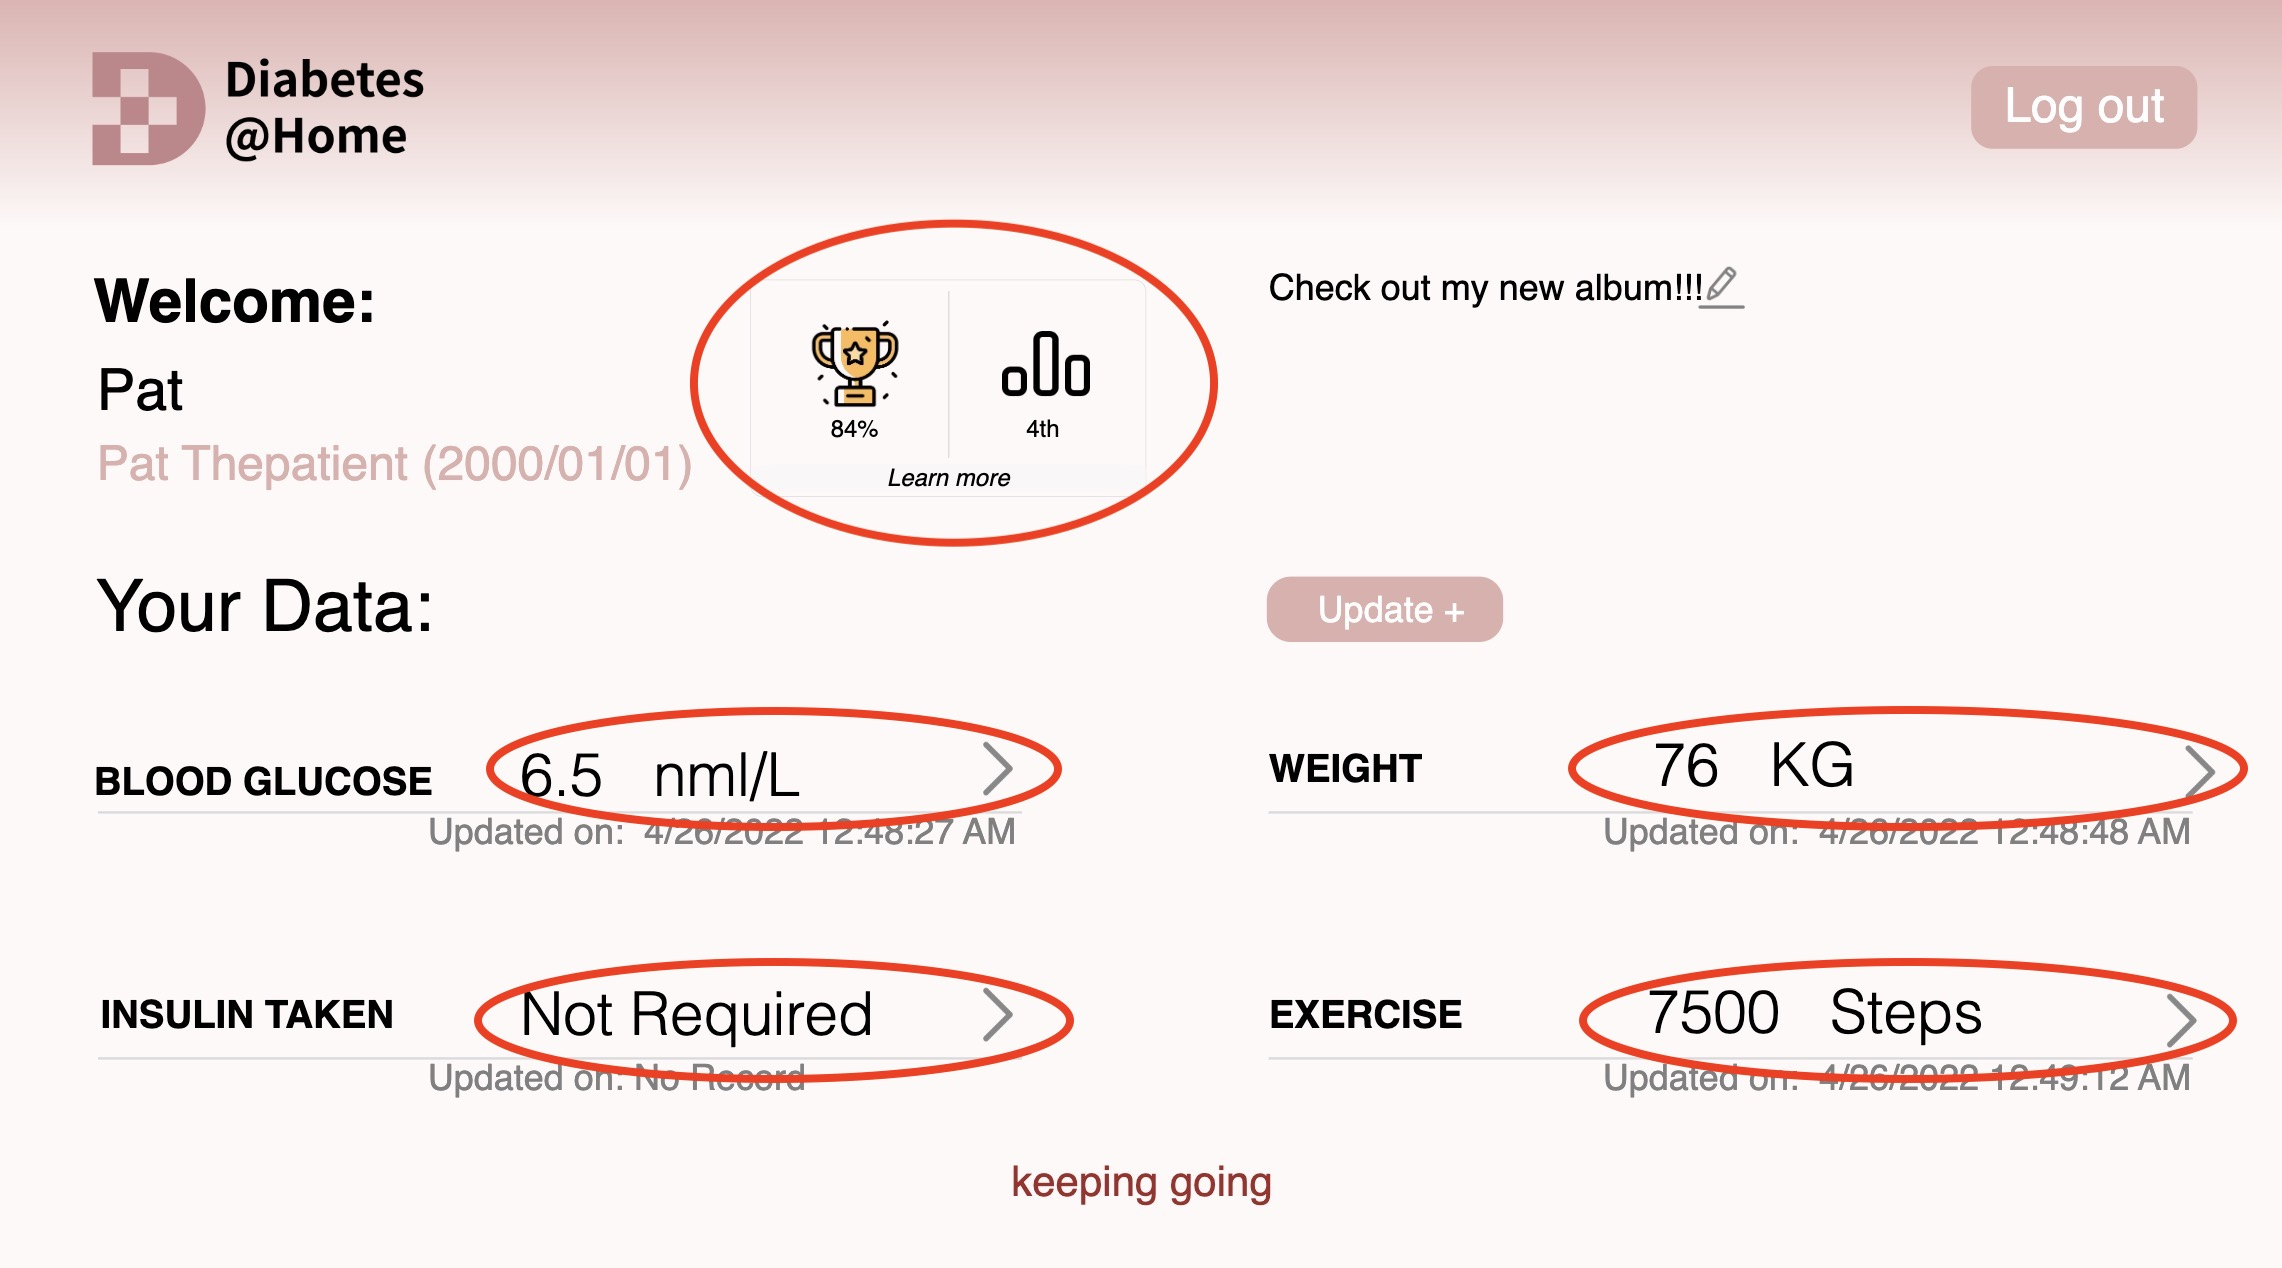
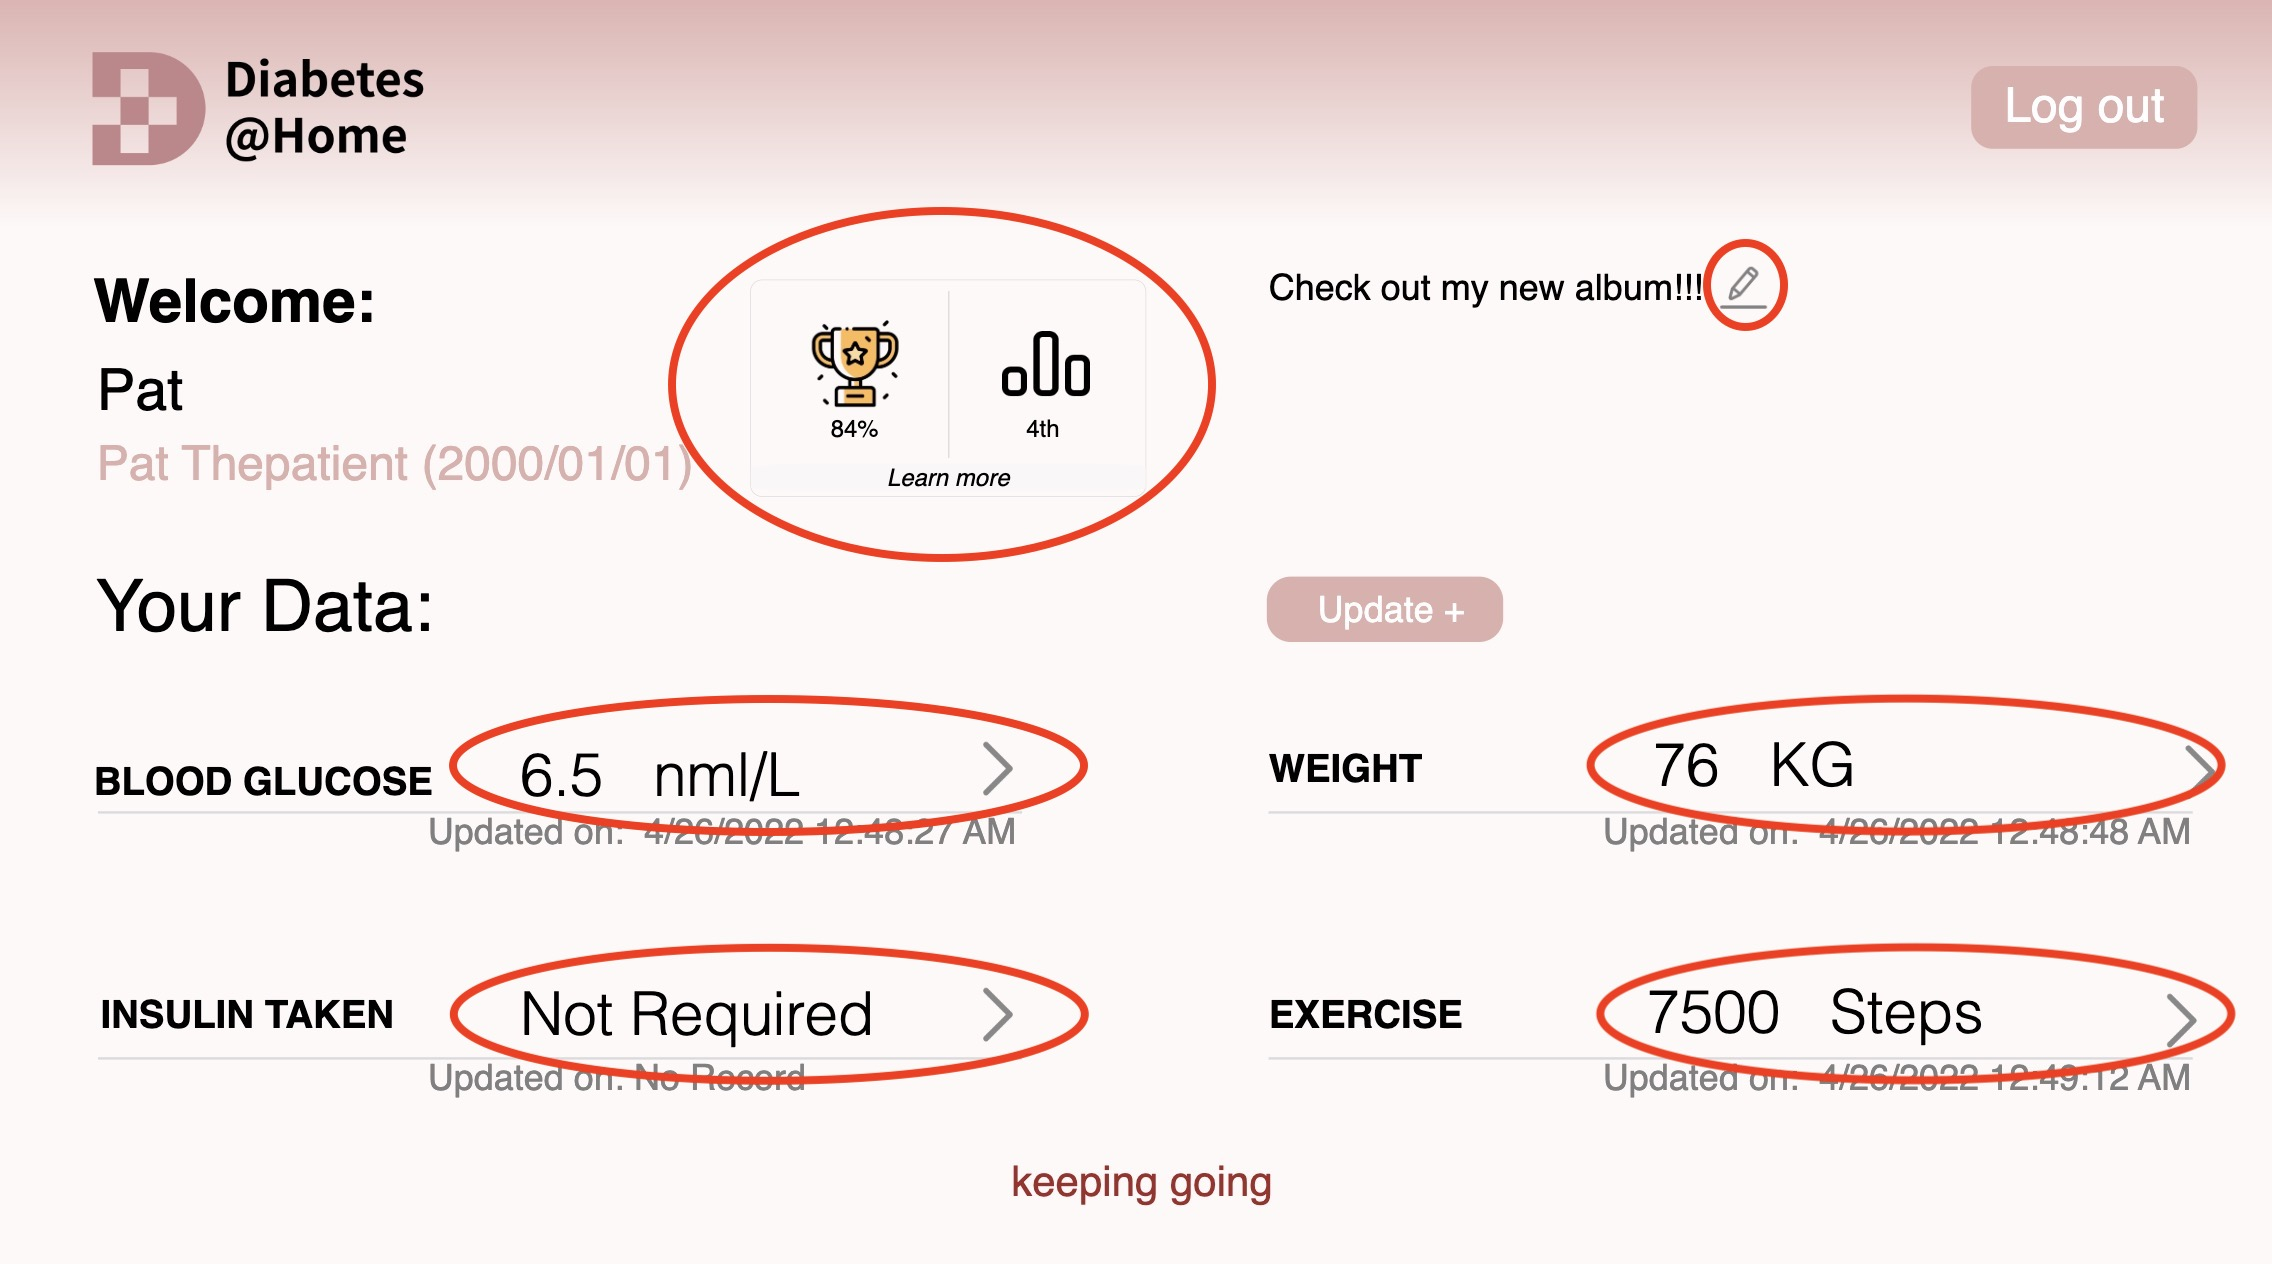
readme change

diff --git a/README.md b/README.md
@@ -24,7 +24,11 @@ So, if Pat Blood Glucose data is <= 3.9 or >= 6.1, the Blood Glucose field will 
 
 #### Other patient in dashboard page:
 
-Except Pat, the rest patients in dashboard is fake data, only for display purpose, no really meanning.
+<p align="center">
+  <img src="README_res/fake-information.jpeg"  width="600" >
+</p>
+
+Except Pat, the rest patients in dashboard is fake data(cirlced in red), only for display purpose, no really meanning.
 
 ### Functionalities implemented but not required for Deliverable2:
 
@@ -50,7 +54,7 @@ We set patient Pat's **Insulin Taken** as not required for functionality testing
   <img src="README_res/patient-homepage.jpeg"  width="600" >
 </p>
 
-In patient side, the function leaderboard and achievement which has been circled in red, we have designed it in deliverable 1 but not required in deliverable 2, we have not implemented it yet.
+In patient side, the function leaderboard and achievement which has been circled in red, we have designed it in deliverable 1 but not required in deliverable 2, we have not implemented it yet. And the function of edit bio(the pan icon circled in red) has not been implemented yet.
 
 If click on the data which have been circled in red, patient should be able to look at the past data. It is not required in deliverable 2, so we have not implemented it yet.
 
